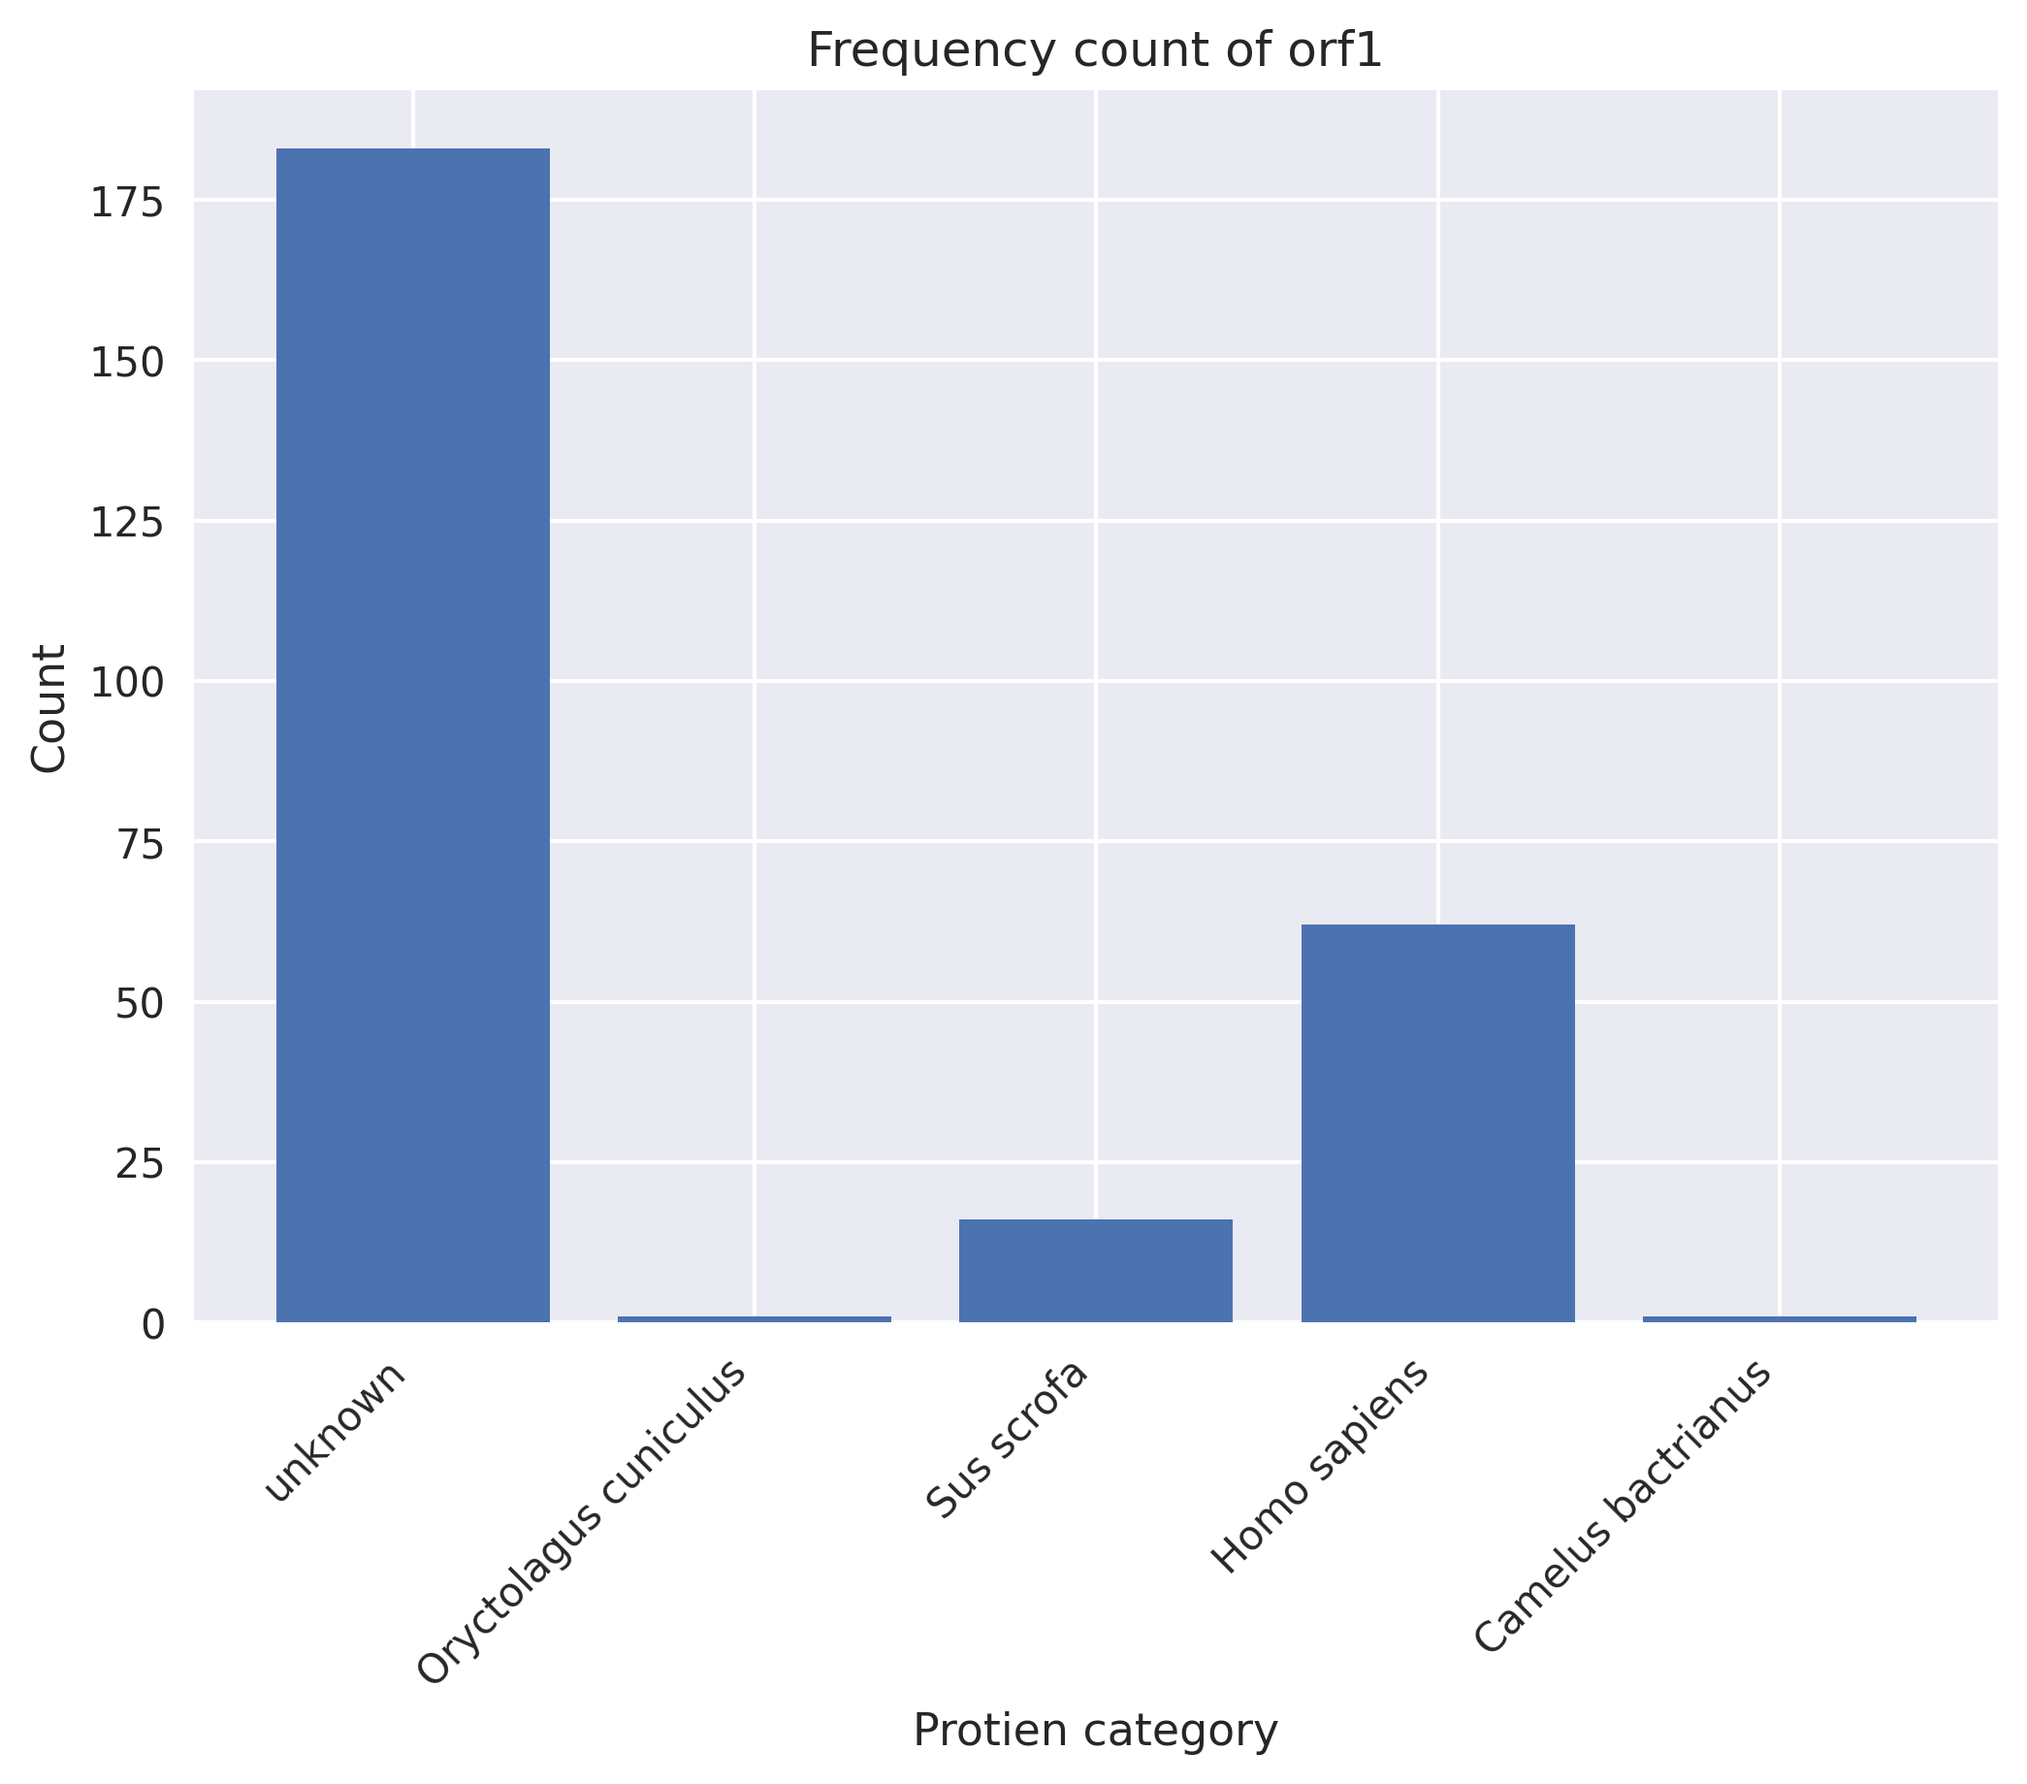
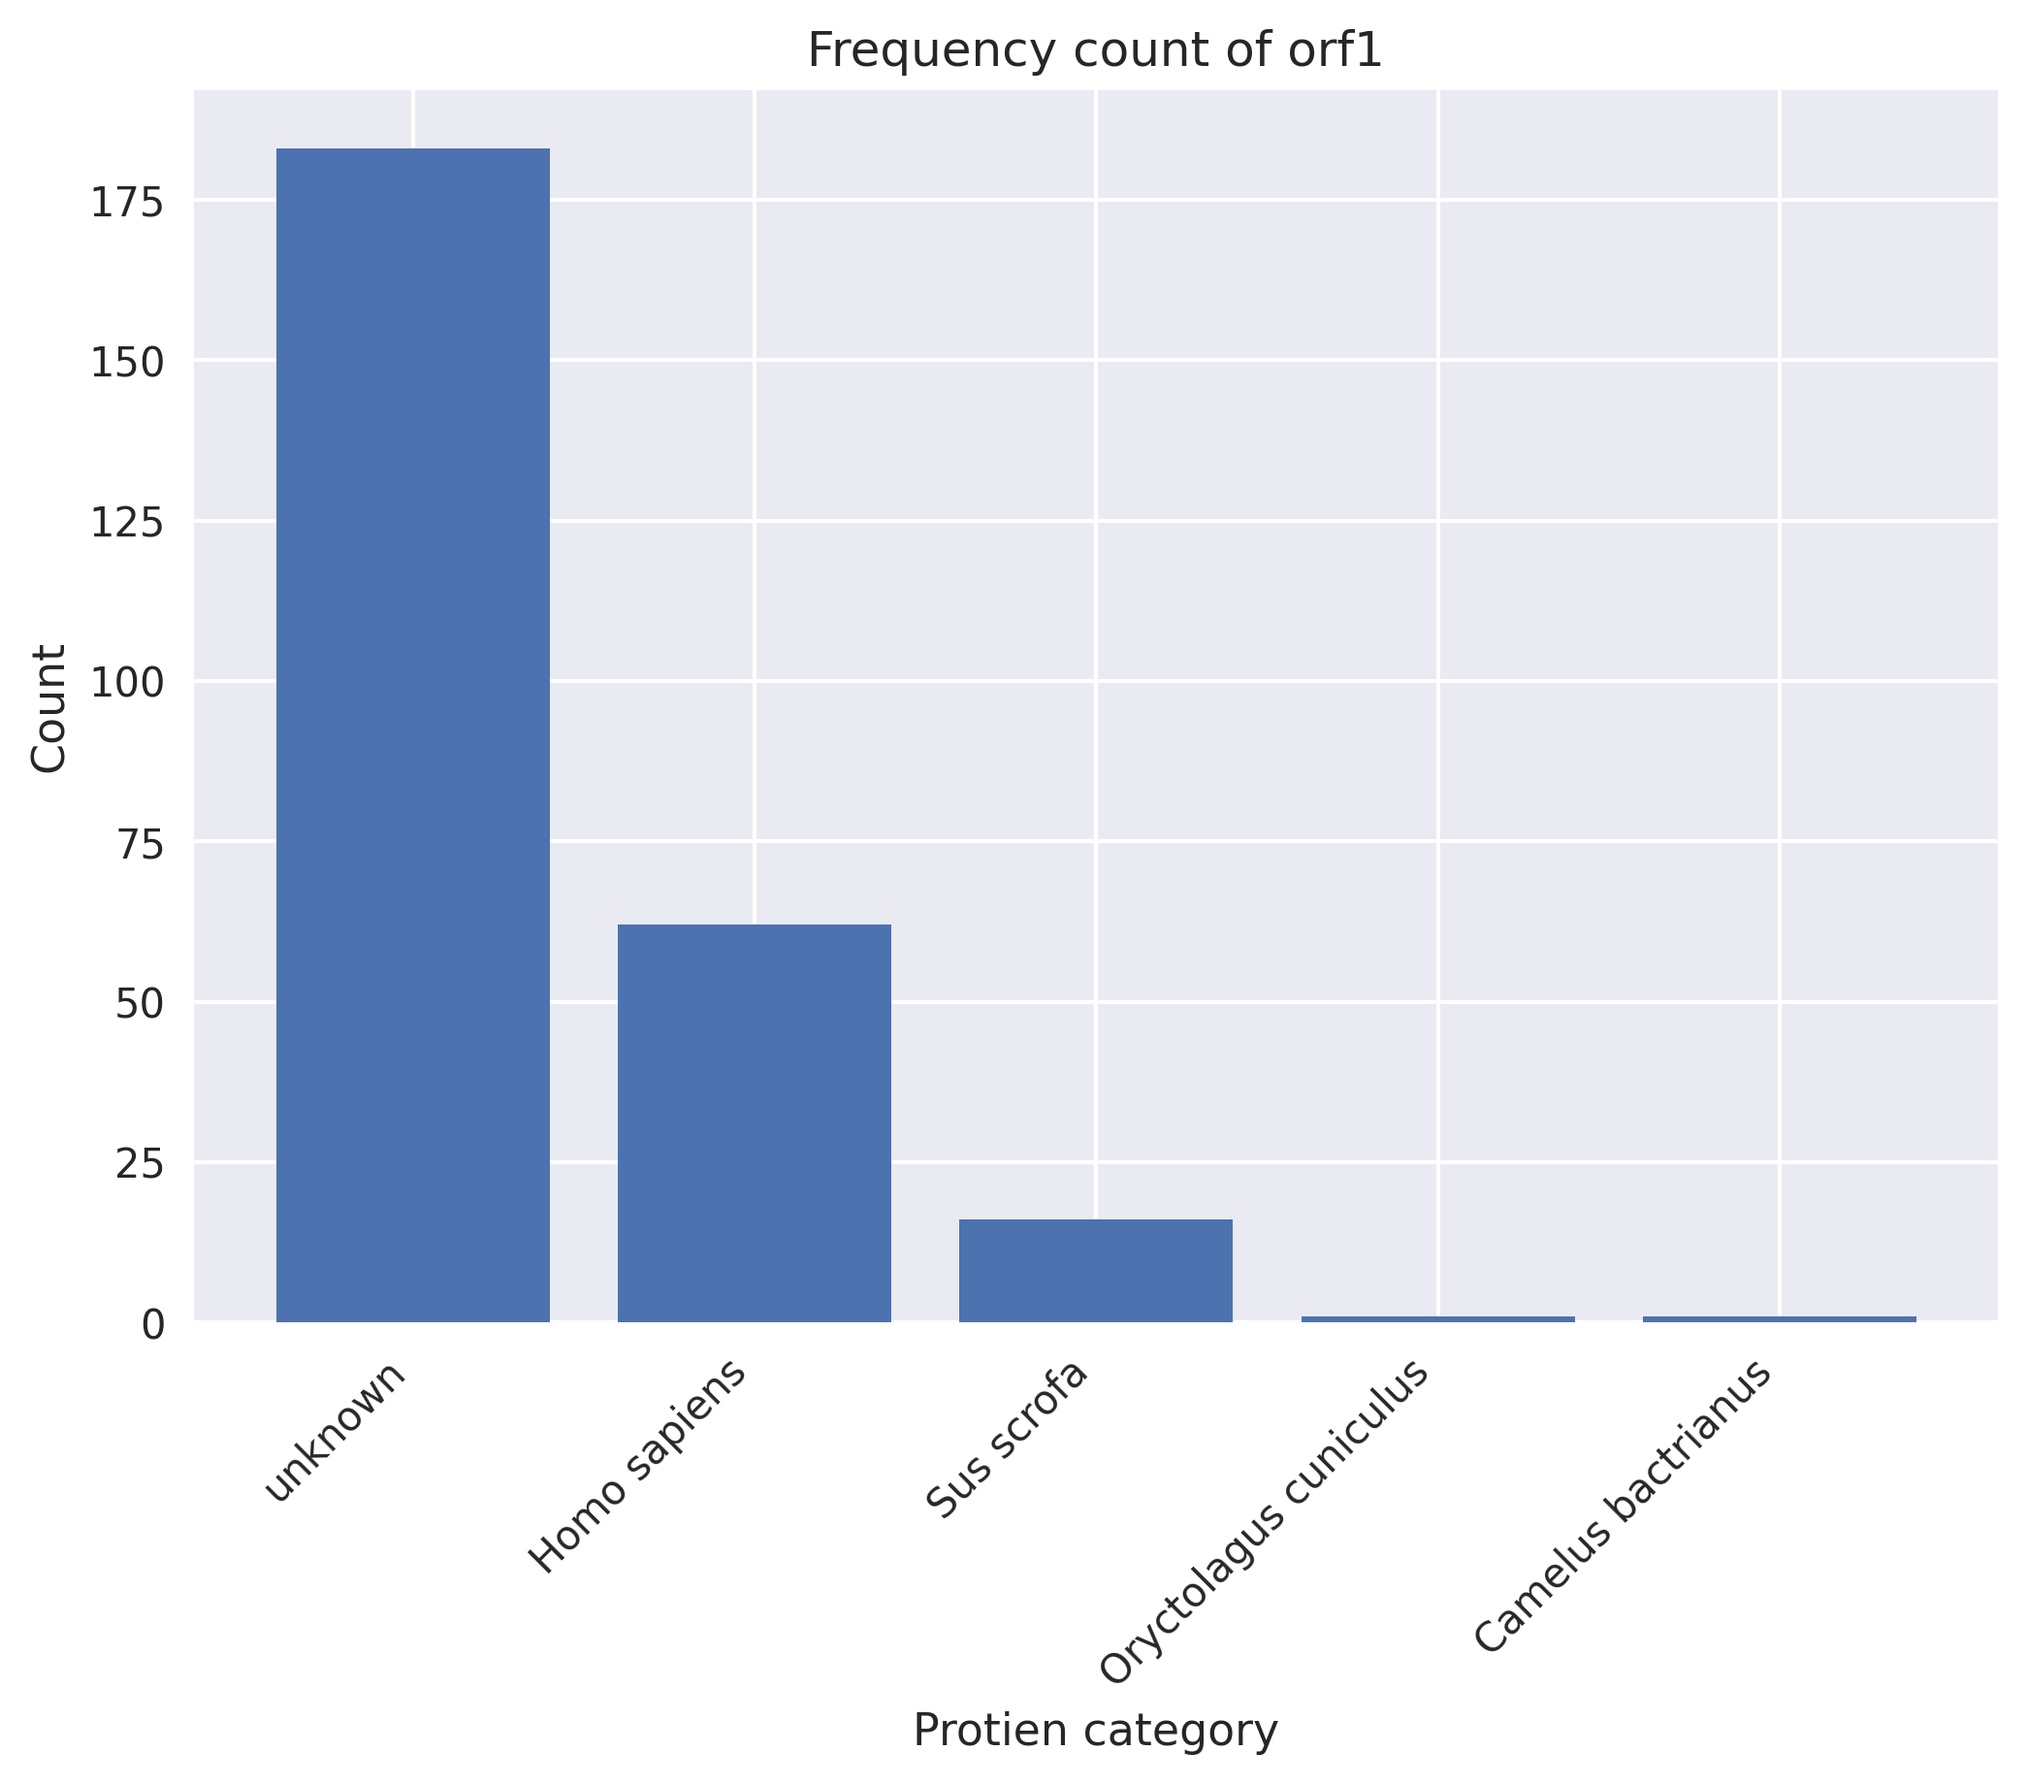
Updated figure for sorted

diff --git a/bin/hep.py b/bin/hep.py
@@ -304,13 +304,17 @@ if __name__ == '__main__':
         def plotCounter(d, p_name):
             print(f"{p_name}: {d}")
             with plt.style.context("seaborn"):
-                fig = plt.figure(1, [23, 18])
-                plt.bar(d.keys(), d.values())
+                #fig = plt.figure(1, [5, 4])
+                #plt.rcParams.update({'font.size': 22})
+                tmp = sorted(zip(d.keys(), d.values()), key=lambda x: -x[1])  
+                keys = [x[0] for x in tmp]
+                values = [y[1] for y in tmp]
+                plt.bar(keys, values)
                 plt.xticks(
                     rotation=45,
                     horizontalalignment='right',
-                    fontweight='heavy',
-                    fontsize='x-large'
+                    #fontweight='heavy',
+                    #fontsize='small'
 	            )
             plt.xlabel('Protien category')
             plt.ylabel('Count')
